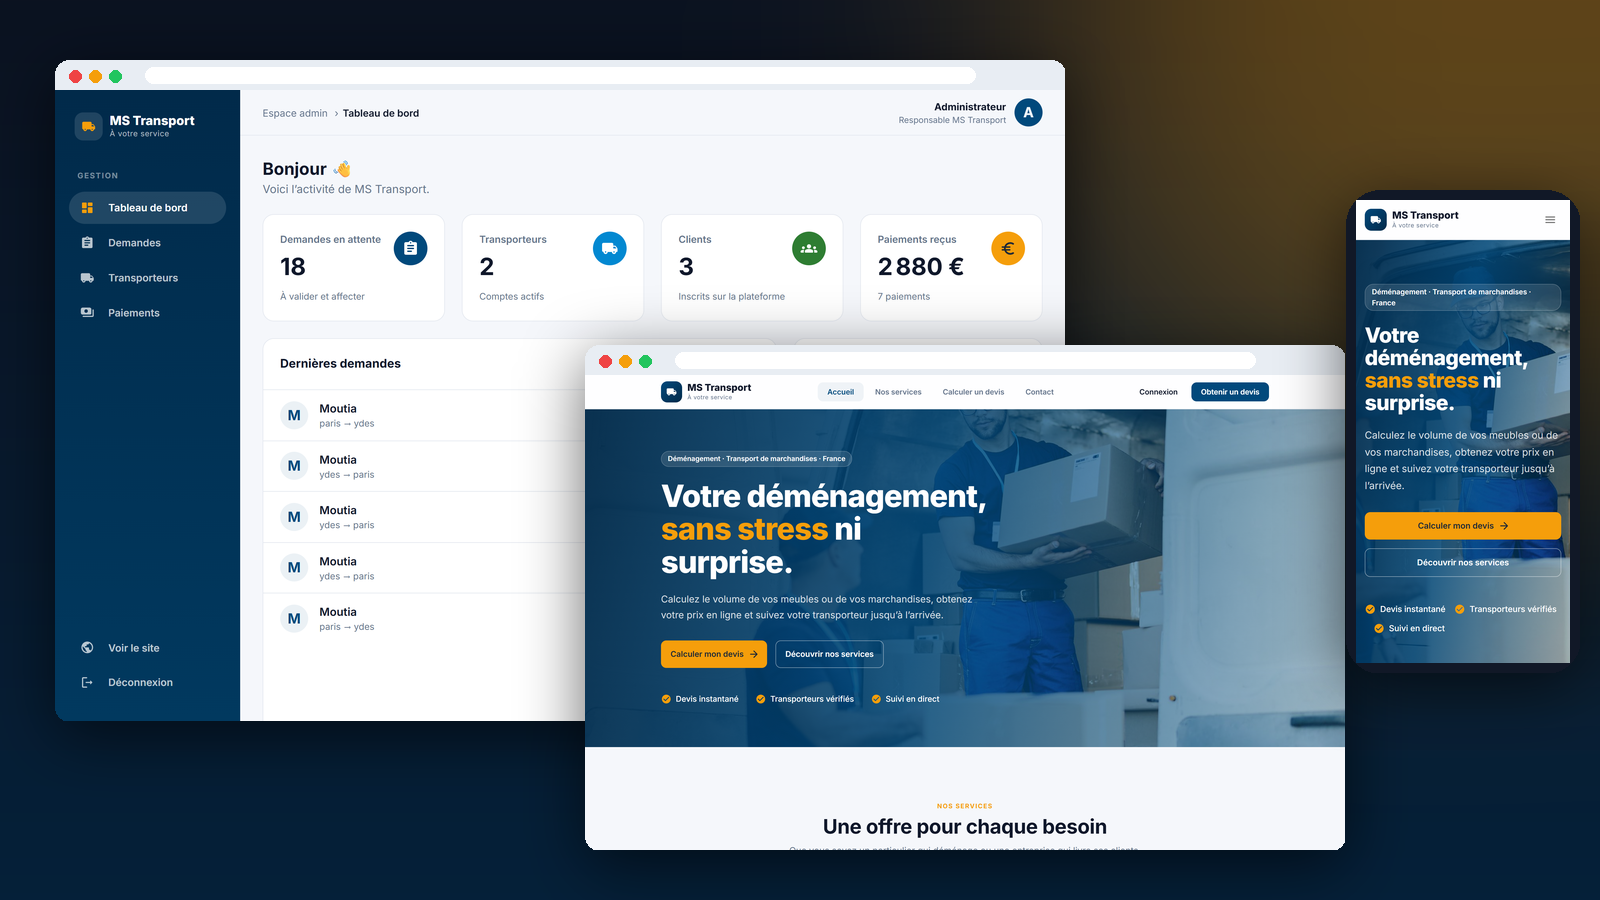
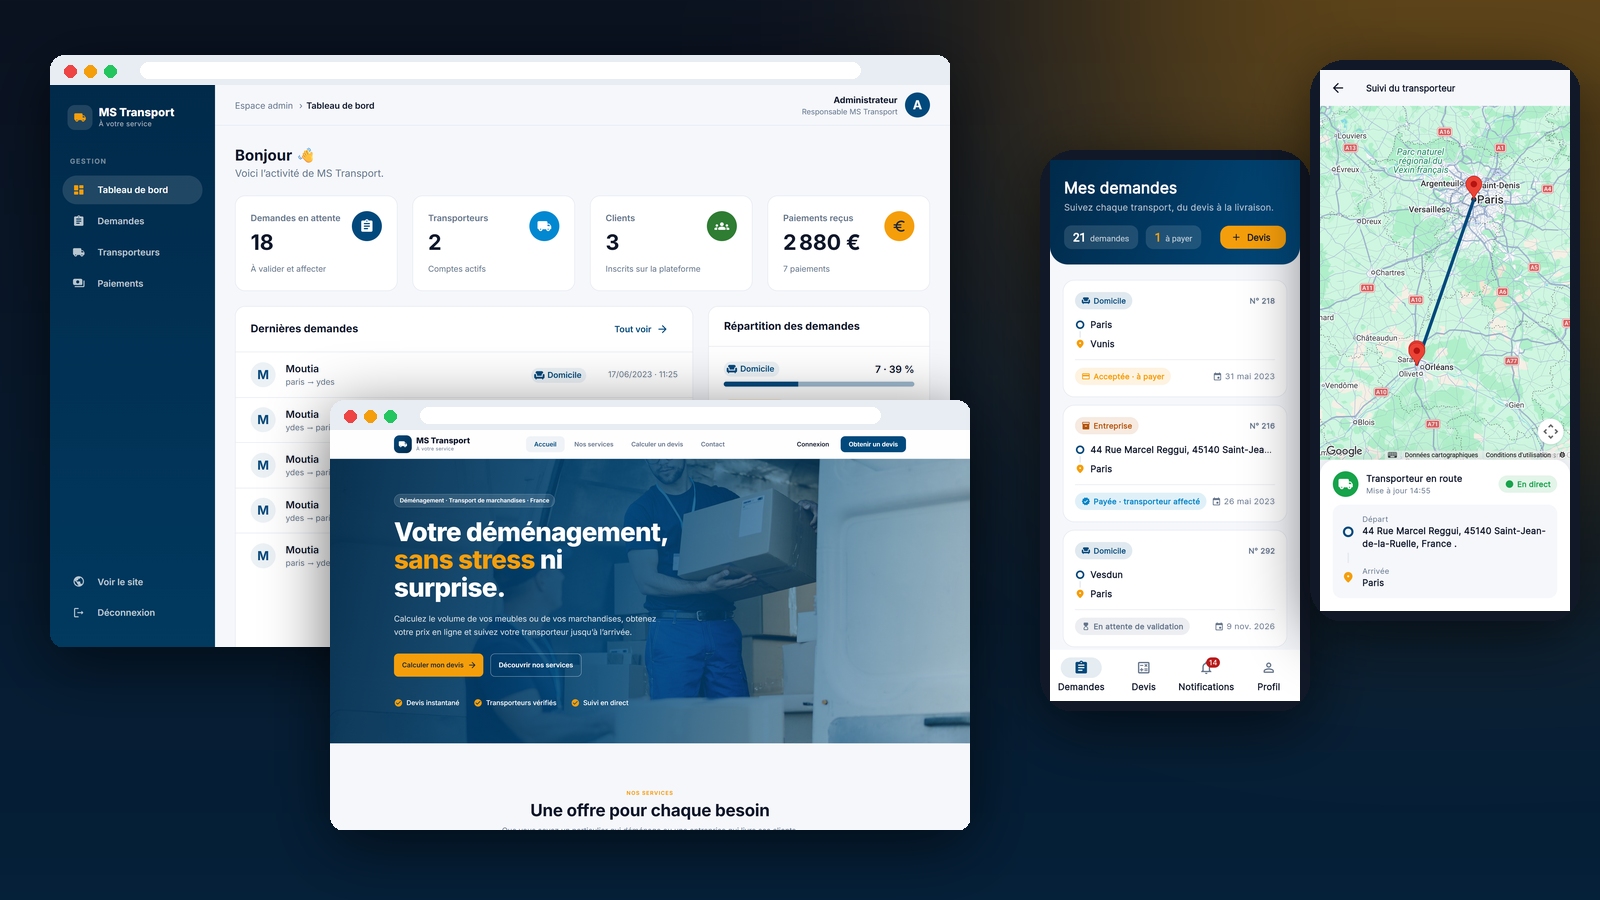
Portfolio: Neapolis Car screenshots, MS Transport image with redesigned Flutter app

diff --git a/src/components/Project/Project.tsx b/src/components/Project/Project.tsx
@@ -3,8 +3,7 @@ import externalLink from "../../assets/external-link.svg"
 import ScrollAnimation from "react-animate-on-scroll";
 import predictiveMaintenance from "../../assets/projects/predictive_maintenance.png"
 import msTransport from "../../assets/projects/ms_transport.png"
-import flutterIcon from "../../assets/flutter.svg"
-import djangoIcon from "../../assets/django.svg"
+import neapolisCar from "../../assets/projects/neapolis_car.png"
 import arduinoIcon from "../../assets/arduino.svg"
 
 type ProjectItem = {
@@ -32,7 +31,7 @@ const projects: ProjectItem[] = [
     title: "MS Transport – Moving & Freight Platform (Web + Mobile)",
     category: "Web & Mobile — Bachelor final-year project",
     description:
-      "Built from scratch for a moving company in France: customers estimate the volume of their furniture or goods, get an instant quote and book a date; admins validate requests, assign carriers and follow payments. The Flutter app adds Stripe payments and live carrier tracking on Google Maps. Redesigned in 2026.",
+      "Built from scratch for a moving company in France: customers estimate the volume of their furniture or goods, get an instant quote and book a date; admins validate requests, assign carriers and follow payments. The Flutter app adds Stripe payments and live carrier tracking on Google Maps. Web and Flutter apps redesigned in 2026.",
     techs: ["React", "Material UI", "Flutter", "Django REST", "MySQL", "Stripe", "Google Maps"],
     image: msTransport,
   },
@@ -42,7 +41,7 @@ const projects: ProjectItem[] = [
     description:
       "First mobile application of Neapolis Car, a car rental company, extending its reservation website. Clients can browse available cars, book a rental or a transfer service and follow their reservations. Published on Google Play.",
     techs: ["Flutter", "Django", "PostgreSQL"],
-    icons: [flutterIcon, djangoIcon],
+    image: neapolisCar,
     link: "https://play.google.com/store/apps/details?id=com.neapolis_car.neapolis_car&pcampaignid=web_share",
   },
   {
